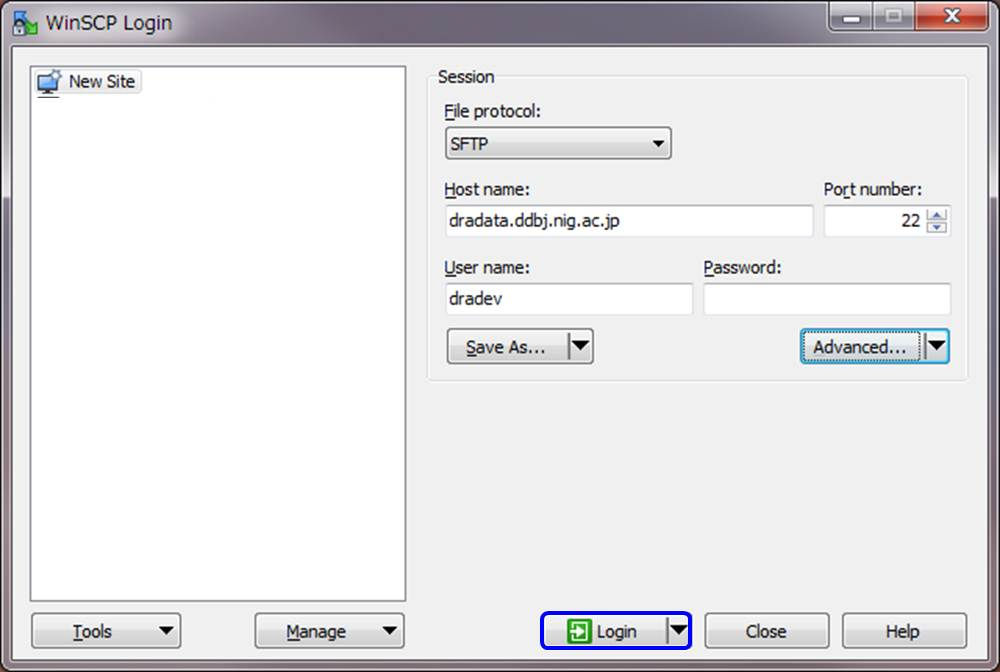
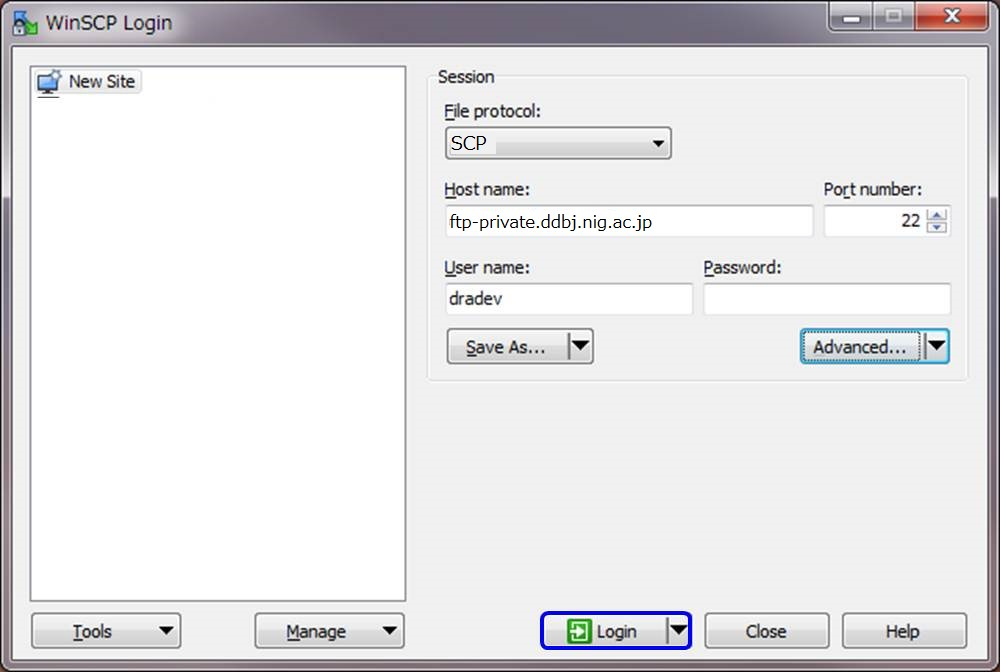
winscp fixed

Changed region(s): [[0.434, 0.3125, 0.651, 0.3438], [0.527, 0.9062, 0.682, 0.9375], [0.434, 0.1875, 0.496, 0.25]]

diff --git a/_dra/submission.md b/_dra/submission.md
@@ -948,7 +948,7 @@ DRA への登録 ～データの転送 (Windows)～
 転送モードはバイナリモードにします。テキストモードで転送しないでください。
 </div>
 
-  - **File protocol:** SFTP
+  - **File protocol:** SCP
   - **Host name:** ftp-private.ddbj.nig.ac.jp
   - **Port number:** 22
   - **User name:** (D-way の Login ID を入力)

diff --git a/_dra/submission-e.md b/_dra/submission-e.md
@@ -1120,7 +1120,7 @@ Set items as below and click the [Advanced...] button.
 Be sure to select the "binary mode" for file transfer. Do NOT select the "text mode".
 </div>
 
-  - File protocol: SFTP
+  - File protocol: SCP
   - Host name: ftp-private.ddbj.nig.ac.jp
   - Port number: 22
   - User name: (D-way Login ID)
